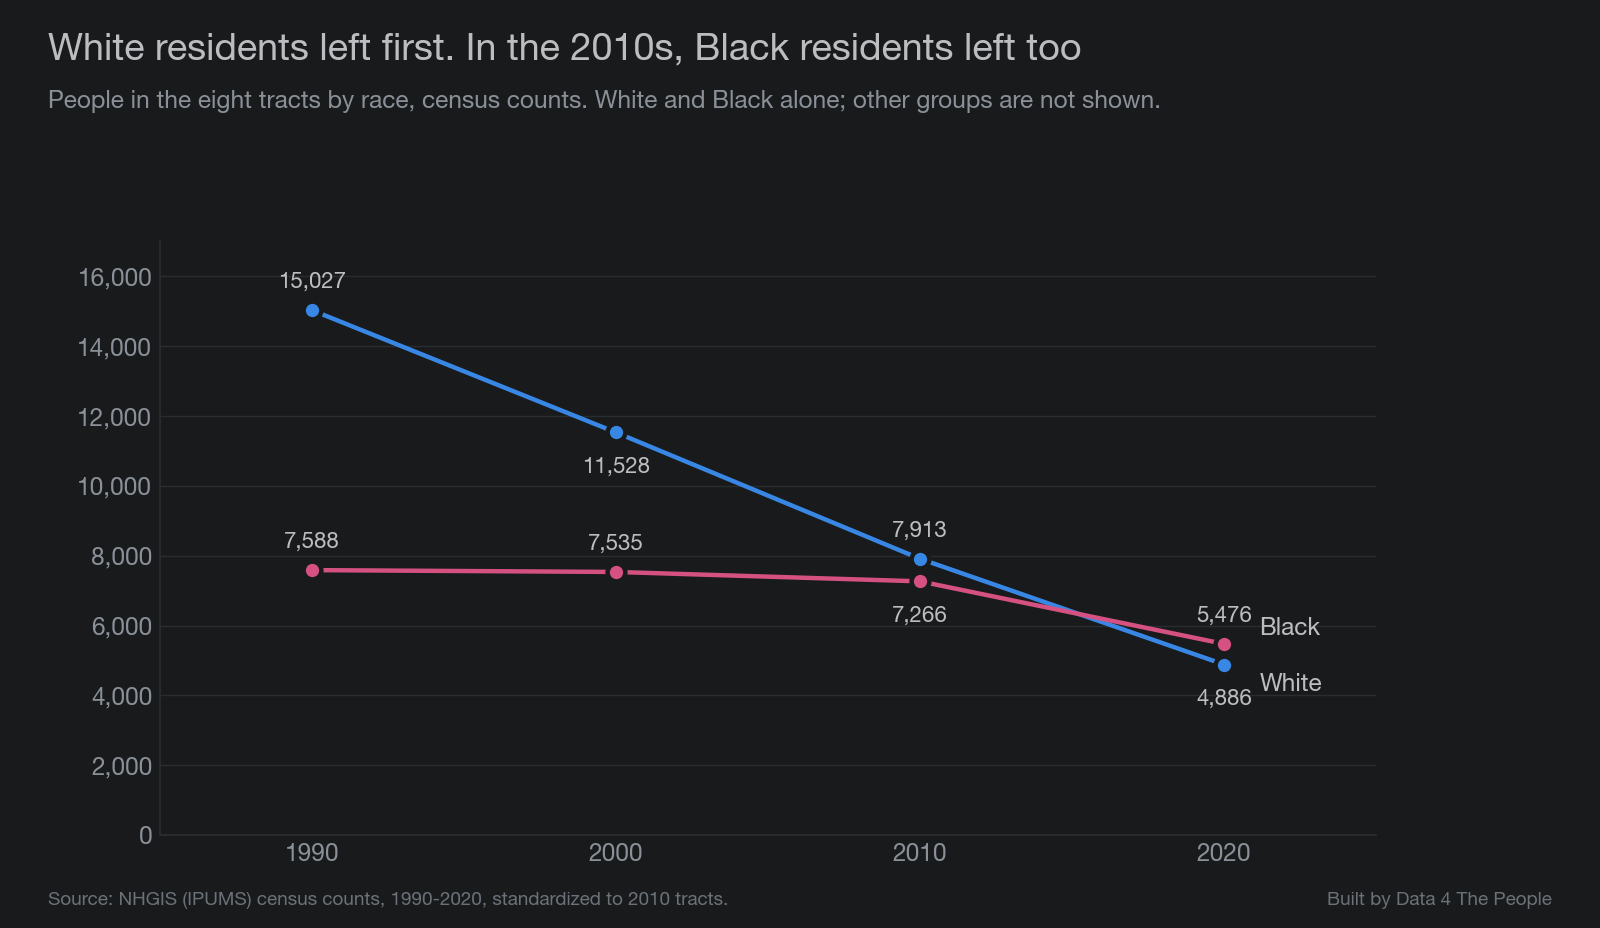
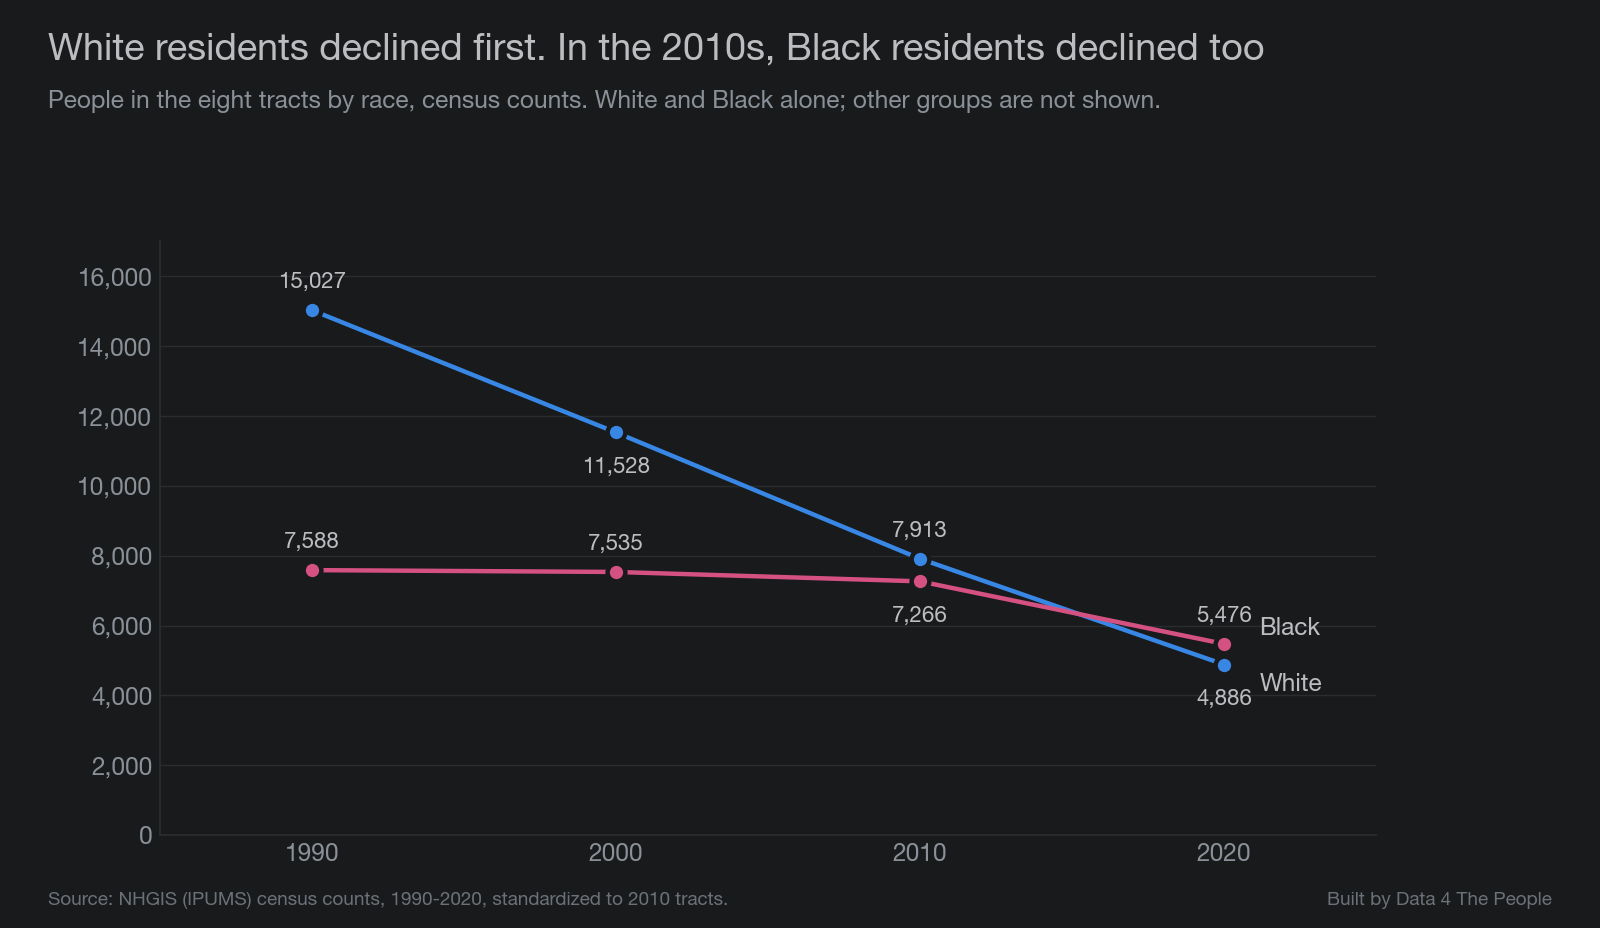
spotlight-north-flint: rewrite with story-first sections, locator map, hero and photos; DATASETS

Changed region(s): [[0.1875, 0.0312, 0.7812, 0.0625]]

diff --git a/scripts/99ae_charts_northflint.py b/scripts/99ae_charts_northflint.py
@@ -68,7 +68,7 @@ for m, col, lab, dy in (("white", BLUE, "White", -18), ("black", MAGENTA, "Black
     ax.annotate(lab, (xs[-1], ys[-1]), xytext=(16, -12 if m == "white" else 4), textcoords="offset points", color=INK, fontsize=11)
 ax.set_xlim(1985, 2025); ax.set_xticks(xs); ax.set_ylim(0, 17000)
 ax.yaxis.set_major_formatter(plt.FuncFormatter(lambda v, _: f"{v:,.0f}")); style(ax)
-titleblock(fig, "White residents left first. In the 2010s, Black residents left too",
+titleblock(fig, "White residents declined first. In the 2010s, Black residents declined too",
            "People in the eight tracts by race, census counts. White and Black alone; other groups are not shown.")
 credit(fig, "Source: NHGIS (IPUMS) census counts, 1990-2020, standardized to 2010 tracts.")
 fig.savefig(OUT / "02c-race.png"); plt.close(fig)

diff --git a/posts/spotlight-north-flint/POST.md b/posts/spotlight-north-flint/POST.md
@@ -40,9 +40,14 @@ Here is how North and East Flint compares with the country today.
 ::: spacer 20px
 
 ::: dropcap
-North and East Flint is eight census tracts on Flint, Michigan's north and east sides, with about 11,800 people. They wrap around the land where General Motors' Buick City plant once stood and run east along the I-475 freeway toward Davison Road. About 46% of the people who live here are Black, up from 32% in 1990. Median household income is about $25,300, 31% of the U.S. figure. Life expectancy is 69.9 years, 8.8 years shorter than for the country as a whole.
+North and East Flint is eight census tracts on Flint, Michigan's north and east sides. Together they had 11,704 people in the 2020 census. They wrap around the land where General Motors' Buick City plant once stood and run east along the I-475 freeway toward Davison Road. About 46% of the people who live here are Black, up from 32% in 1990. Median household income is about $25,300, 31% of the U.S. figure. Life expectancy is 69.9 years, 8.8 years shorter than for the country as a whole.
 
 North and East Flint took a long series of hits over almost a century. This post walks through them in order, with a link to the source for each one. Our census numbers for these tracts start in 1990, so the early chapters come from historical records, not from our data.
+
+The map below shows where the eight tracts are.
+
+![Map of Flint, Michigan, with the eight North and East Flint census tracts shaded pink on the city's north and east sides. Interstate 475 runs north and south through the tracts, and the Flint River winds through the north end and then southwest past City Hall. A square marks the address RACER Trust lists for the former Buick City site, at the western edge of the tracts. An inset shows the location in Michigan's Lower Peninsula.](images/00b-locator.png)
+*Tracts, city boundary, freeways and water from the Census Bureau.*
 
 ## The map that came first
 
@@ -75,27 +80,55 @@ Most of the cleared St. John land is now highway, industrial land or a neighbori
 
 ::: spacer 5px
 
+![A black-and-white postcard of the Buick Motor Works in Flint from about 1907. A long four-story brick factory with rows of windows stretches into the distance, with an older two-story building with a hipped roof at left. Smoke rises from a tall chimney. A streetcar, an early automobile and railroad tracks cross the dirt yard in front. Printed across the bottom: Buick Motor Works, Flint, Mich.](images/02a-buick-motor-works-1907.jpg)
+*The Buick Motor Works in Flint, about 1907. Postcard, public domain.*
+
 In 1954, GM had nearly 80,000 workers in the Flint area. From 1955 to 1987, it cut 34,000 jobs there ([Highsmith, 2009, pp. 3 and 8](http://web.archive.org/web/20241101133630/https://deepblue.lib.umich.edu/bitstream/handle/2027.42/62230/ahighsmi_1.pdf)). In 1985, GM spent $300 million to turn its North End Buick plants into Buick City, one large complex. Those plants had once employed more than 20,000 local workers ([Highsmith, 2009, pp. 477 and 479](http://web.archive.org/web/20241101133630/https://deepblue.lib.umich.edu/bitstream/handle/2027.42/62230/ahighsmi_1.pdf)).
 
 In November 1997, GM announced that Buick City would close, and it closed in the summer of 1999 ([Highsmith, 2009, p. 479](http://web.archive.org/web/20241101133630/https://deepblue.lib.umich.edu/bitstream/handle/2027.42/62230/ahighsmi_1.pdf)). The 413-acre site was torn down in stages from 2000 to 2012 ([RACER Trust](https://www.racertrust.org/properties/buick-city-site)). GM's workforce in Genesee County fell to 33,000 in 1997 and to 15,000 by 2002 ([Highsmith, 2009, p. 9](http://web.archive.org/web/20241101133630/https://deepblue.lib.umich.edu/bitstream/handle/2027.42/62230/ahighsmi_1.pdf)).
 
-The chart below counts the people living inside today's eight tract lines in each census since 1990.
+![A color satellite image of central Flint in June 2022. Green tree cover and a grid of residential streets fill most of the frame. Downtown and the freeway interchanges sit near the center, the Flint River winds from upper right to the west, and a long pale strip of cleared land runs north from downtown beside the freeway.](images/05a-satellite-2022.jpg)
+*Central Flint from the European Space Agency's Sentinel-2 satellite, June 28, 2022. CC BY-SA 3.0 IGO.*
 
-![Line chart of the number of people living in North and East Flint's eight census tracts: 23,592 in 1990, 20,537 in 2000, 16,483 in 2010 and 11,767 in 2020-2024.](images/02-population.png)
-*Earlier counts are fitted to today's tract lines. 2020-2024 is a five-year survey estimate.*
+Fewer people who live here have jobs. In 1990, about 7,000 people living in the eight tracts were working. In 2020-2024, about 3,800 were ([NHGIS](https://www.nhgis.org/); [Census Bureau, American Community Survey 2020-2024](https://data.census.gov/table/ACSDT5Y2024.B23025)). Among people ages 25 to 54, 56% had a job, compared with 76% across Genesee County ([Census Bureau, American Community Survey 2020-2024](https://data.census.gov/table/ACSDT5Y2024.B23001)). In 1990, 29% of working residents here worked in manufacturing, about the same as the county's 30%.
 
-Over the same years, more people here had low incomes and more homes stood empty. The chart below shows the share of people below 200% of the poverty line, which rose from 60% in 1990 to 73% in 2020-2024, and the share of homes vacant.
+## People leave
+
+::: spacer 5px
+
+The chart below shows how much the number of people changed in each decade since 1990, here, in the rest of Flint and in Genesee County.
+
+![Bar chart of the percent change in the number of people in each decade. North and East Flint: down 13% from 1990 to 2000, down 20% from 2000 to 2010 and down 29% from 2010 to 2020. Rest of Flint: down 11%, 18% and 19%. Genesee County: up 1%, then down 2% and 5%.](images/02-loss-by-decade.png)
+*Census counts on 2010 tract lines. The rest of Flint is the other tracts inside the city.*
+
+The eight tracts lost 13% of their people in the 1990s, 20% in the 2000s and 29% in the 2010s. The census counted 23,592 people here in 1990 and 11,704 in 2020. The rest of Flint lost 19% in the 2010s. That decade included the second state takeover and the water crisis, described below. These counts show when people left, not why.
+
+The numbers of children and adults fell at about the same pace. From 2010 to 2020, the number of children here fell 31% and the number of adults fell 28%. Children were 32% of residents in 2000 and 28% in 2020.
+
+The number of white residents fell first. From 1990 to 2010, the number of white residents fell from 15,027 to 7,913, while the number of Black residents stayed near 7,500. In the 2010s, the number of Black residents fell 25%, to 5,476. The chart below shows both groups.
+
+![Line chart of people in the eight tracts by race, 1990 to 2020. White residents: 15,027 in 1990, 11,528 in 2000, 7,913 in 2010 and 4,886 in 2020. Black residents: 7,588, 7,535, 7,266 and 5,476.](images/02c-race.png)
+*Census counts on 2010 tract lines. White and Black alone; other groups are not shown.*
+
+Homes went with the people. The eight tracts had 10,187 homes in 1990 and 5,794 in 2020, 43% fewer. About 2,500 of the homes lost were lost in the 2010s. Over that decade, the number of vacant homes fell from 2,008 to 968. The census counts homes that are standing, so these homes were removed. That fits the demolition of empty houses, but the census does not record why a home is gone. The chart below shows all homes and vacant homes.
+
+![Two stacked line charts for the eight tracts, 1990 to 2020. All homes: 10,187 in 1990, 9,234 in 2000, 8,297 in 2010 and 5,794 in 2020. Vacant homes: 928, 1,274, 2,008 and 968.](images/02b-homes.png)
+*Census counts on 2010 tract lines.*
+
+The people who stayed had less to live on. The chart below shows the share of people below 200% of the poverty line, which rose from 60% in 1990 to 73% in 2020-2024, and the share of homes vacant.
 
 ![Line chart of three shares for North and East Flint. People below 200% of the poverty line: 60% in 1990, 62% in 2000, 71% in 2008-2012 and 73% in 2020-2024. Homes vacant: 9% in 1990, 14% in 2000, 24% in 2010 and 20% in 2020-2024. U.S. share below 200%, dashed: 31% in 1990 and 28% in 2020-2024.](images/03-low-income-vacancy.png)
 *Low income here means below 200% of the federal poverty line. Income for 2010 is from the 2008-2012 survey.*
 
-Vacancy fell after 2010. We think that is mostly because empty houses were torn down, but we have not checked demolition counts by tract. Census and survey vacancy are also measured in different ways.
 
 ## State control and the water
 
 ::: spacer 5px
 
 Flint was run by state-appointed managers twice. An emergency financial manager ran the city from 2002 to 2004. A second state takeover began in December 2011. Four emergency managers served through April 2015, one of them twice ([Flint Water Advisory Task Force, 2016, p. 43](https://www.michigan.gov/-/media/Project/Websites/formergovernors/Folder6/FWATF_FINAL_REPORT_21March2016.pdf)). A state board then oversaw the city until April 10, 2018 ([Associated Press via WKAR, 2018](https://www.wkar.org/community/2018-04-10/city-of-flint-officially-released-from-state-oversight)).
+
+![A close-up of hands holding a black handheld water-testing meter on the edge of a white kitchen sink, with a faucet at upper left and a counter in the foreground.](images/03a-water-testing-2016.jpg)
+*EPA staff test water quality at a sink in Flint, April 2016. Photo: U.S. Environmental Protection Agency, public domain.*
 
 In April 2014, under emergency management, the city began treating and serving Flint River water. State regulators wrongly decided that treatment to control pipe corrosion was not needed right away. The city switched back to Detroit water on Oct. 16, 2015. The governor's task force found that "emergency managers, not locally elected officials, made the decision" ([Flint Water Advisory Task Force, 2016, pp. 20, 25 and 44](https://www.michigan.gov/-/media/Project/Websites/formergovernors/Folder6/FWATF_FINAL_REPORT_21March2016.pdf)).
 

diff --git a/DATASETS.md b/DATASETS.md
@@ -510,3 +510,11 @@ Share of people whose family income is under twice the federal poverty line, for
 - **Food insecurity is not available for Texas** in PLACES (40 states only).
 - **Locator map and distance to the border** (`scripts/99aa_locator_map_elsegundo.py`). The international border is the outer edge of Texas and New Mexico together in the Census Bureau's 2020 cartographic state file; roads are TIGER/Line 2024 interstates and U.S. highways for El Paso County. Farthest point of the six tracts from the border: 2,182 m (1.36 miles), measured in UTM zone 13N.
 - **Health insurance** (`scripts/99z_insurance_elsegundo.py`). ACS 2020-2024 C27007 (Medicaid or other means-tested coverage by age), B27010 (uninsured and employer-only coverage by age), B27020 (uninsured by nativity and citizenship), summed across the six tracts, with El Paso County, Texas and the U.S. Margins of error combined as root sum of squares.
+
+### North and East Flint: people, children, race, homes, residents' work, Medicaid and the locator map (scripts 99ab-99ae, 99e and 99h for U013)
+
+- **People, race and homes, 1990-2020** (`scripts/99ab_flint_people_homes.py`). NHGIS time series standardized to 2010 tracts (CL8 total population, CM1 White alone and Black alone, CM9 occupied and vacant housing units), 1990, 2000, 2010 and 2020 census counts. Areas on 2010 tracts: here = 2010 tracts with half or more of their land inside the eight 2020 tracts (the same eight tracts); rest of Flint = other 2010 tracts with half or more of their land inside the city of Flint's 2020 boundary (Census Bureau cartographic place file); Genesee County = all tracts. Percent change by decade from those counts. The counts show when the population fell, not why; they include deaths as well as moves.
+- **Children under 18.** 2000 SF1 P014 (single years under 18 summed), crosswalked to 2010 tracts with NHGIS population weights; 2010 and 2020 redistricting files (total minus 18 and over). The 2020 counts are apportioned to 2010 tracts by land share; for the eight tracts this matches the direct 2020 count (3,289).
+- **Residents' work.** `scripts/99e_labor_spotlight.py U013` and `scripts/99h_industry_spotlight.py U013`. Only 1990 and later are used: the 1940-1980 overlays fit today's outline at 0.72 to 0.80, below the 0.8 rule. Working residents 16 and over, the employment rate for ages 25 to 54 (ACS B23001), and the manufacturing share of working residents (1990 NP77).
+- **Health insurance** (`scripts/99ac_insurance_northflint.py`). ACS 2020-2024 C27007 (Medicaid or other means-tested coverage by age) and B27010 (no coverage by age; employer coverage alone), summed across the eight tracts, with margins of error by root sum of squares and the Census proportion formula. Compared with Genesee County, Michigan and the U.S.
+- **Locator map** (`scripts/99ad_locator_map_northflint.py`). 2020 tracts, the city of Flint boundary, TIGER/Line 2024 roads (interstates and U.S. highways) and 2023 area water (Flint River). City Hall (1101 S. Saginaw St.) and the Buick City site address (902 E. Hamilton Ave.) placed with the Census Bureau geocoder.
